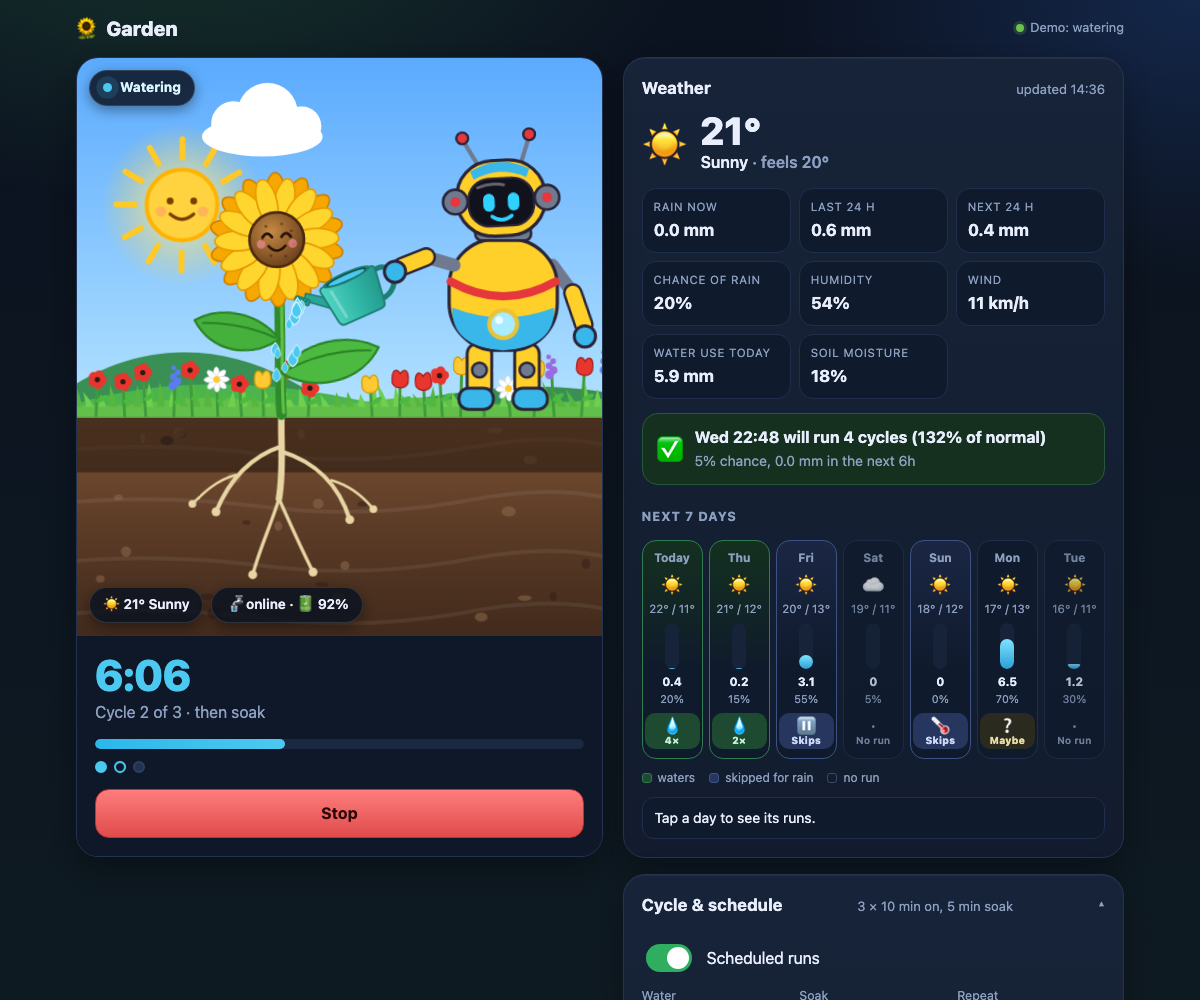
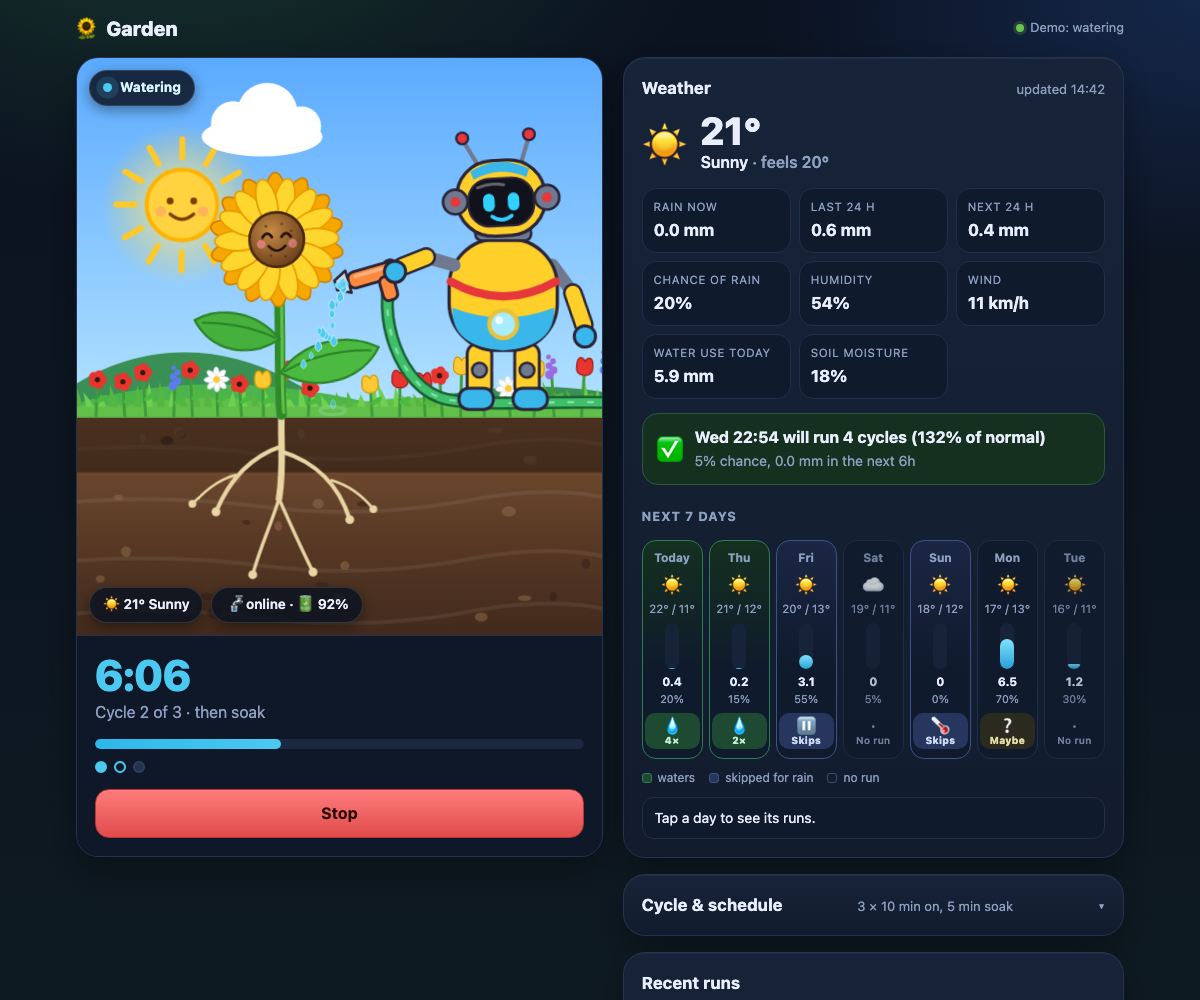
feat(ui): ✨ robot holds a hose
Swap the watering can for a hose gun with a hose trailing behind him. The
spray comes from the nozzle. README text and watering screenshot updated.

diff --git a/worker/public/index.html b/worker/public/index.html
@@ -155,6 +155,11 @@
                 <path d="M41 -70 L46 -50" stroke="#2a2438" stroke-width="12" stroke-linecap="round"/><path d="M41 -70 L46 -50" stroke="#ffcf2a" stroke-width="9" stroke-linecap="round"/>
                 <circle cx="46" cy="-43" r="6.5" fill="#39b6ea" stroke="#2a2438" stroke-width="1.8"/>
               </g>
+              <g class="robot-hose" fill="none" stroke-linecap="round">
+                <path d="M-67 -84 C-78 -60 -64 -12 -34 -6 C-8 -1 36 -7 110 -3" stroke="#1a5e32" stroke-width="8"/>
+                <path d="M-67 -84 C-78 -60 -64 -12 -34 -6 C-8 -1 36 -7 110 -3" stroke="#3fbf6a" stroke-width="5"/>
+                <path d="M-67 -84 C-78 -60 -64 -12 -34 -6 C-8 -1 36 -7 110 -3" stroke="#a8f0c4" stroke-width="1.4" stroke-dasharray="3 9" opacity=".7"/>
+              </g>
               <rect x="-22" y="-40" width="15" height="32" rx="6" fill="#ffcf2a" stroke="#2a2438" stroke-width="1.8"/><rect x="7" y="-40" width="15" height="32" rx="6" fill="#ffcf2a" stroke="#2a2438" stroke-width="1.8"/>
               <circle cx="-14.5" cy="-24" r="4.5" fill="#6f7a91" stroke="#2a2438" stroke-width="1.5"/><circle cx="14.5" cy="-24" r="4.5" fill="#6f7a91" stroke="#2a2438" stroke-width="1.5"/>
               <rect x="-27" y="-13" width="21" height="13" rx="6" fill="#39b6ea" stroke="#2a2438" stroke-width="1.8"/><rect x="6" y="-13" width="21" height="13" rx="6" fill="#39b6ea" stroke="#2a2438" stroke-width="1.8"/>
@@ -178,22 +183,23 @@
               <!-- the arm that holds the can -->
               <path d="M-30 -88 L-47 -93" stroke="#6f7a91" stroke-width="8" stroke-linecap="round"/>
               <circle cx="-47" cy="-93" r="4.5" fill="#6f7a91" stroke="#2a2438" stroke-width="1.5"/>
-              <g class="robot-can">
-                <path d="M34 -12 C 64 -24, 68 24, 31 26" stroke="#1d7f74" stroke-width="7" fill="none" stroke-linecap="round"/>
-                <path d="M-33 12 L-64 -14 L-58 -22 L-28 0Z" fill="#2ba597" stroke="#1d7f74" stroke-width="2" stroke-linejoin="round"/>
-                <g transform="translate(-64 -17) rotate(-48)"><rect x="-7" y="-10" width="8" height="20" rx="2.5" fill="#23988b" stroke="#1d7f74" stroke-width="2"/><circle cx="-2" cy="-5" r="1" fill="#0f4f49"/><circle cx="-2" cy="0" r="1" fill="#0f4f49"/><circle cx="-2" cy="5" r="1" fill="#0f4f49"/></g>
-                <path d="M-34 -20 L34 -20 Q41 -20 39 -12 L33 31 Q32 37 26 37 L-26 37 Q-32 37 -33 31 L-39 -12 Q-41 -20 -34 -20Z" fill="url(#gCan)" stroke="#1d7f74" stroke-width="2.5" stroke-linejoin="round"/>
-                <ellipse cx="0" cy="-20" rx="34" ry="7" fill="#1d7f74"/><ellipse cx="0" cy="-20" rx="29" ry="4.8" fill="#0f4f49"/><ellipse cx="0" cy="-19.2" rx="26" ry="3.4" fill="#4cc9f0"/>
-                <path d="M-26 -10 L-21 28" stroke="#fff" stroke-width="4" opacity=".28" stroke-linecap="round"/>
+              <!-- a hose gun in his hand; the hose trails behind him along the ground -->
+              <g class="robot-gun">
+                <rect x="-71" y="-92" width="6" height="9" rx="2" fill="#8d97ad" stroke="#2a2438" stroke-width="1.4"/>
+                <rect x="-95" y="-91" width="30" height="10" rx="4" fill="#ff8a3d" stroke="#2a2438" stroke-width="1.8"/>
+                <rect x="-77" y="-83" width="9" height="15" rx="3.5" fill="#ff8a3d" stroke="#2a2438" stroke-width="1.8"/>
+                <path d="M-95 -93 L-103 -89 L-103 -83 L-95 -79Z" fill="#d6dbe6" stroke="#2a2438" stroke-width="1.6" stroke-linejoin="round"/>
+                <circle class="tip" cx="-103" cy="-86" r="1.4" fill="#4cc9f0"/>
+                <path d="M-90 -88 L-72 -88" stroke="#fff" stroke-width="2" stroke-linecap="round" opacity=".35"/>
               </g>
               <path d="M-47 -93 L-62 -87" stroke="#2a2438" stroke-width="12" stroke-linecap="round"/><path d="M-47 -93 L-62 -87" stroke="#ffcf2a" stroke-width="9" stroke-linecap="round"/>
               <circle cx="-66" cy="-84" r="6.5" fill="#39b6ea" stroke="#2a2438" stroke-width="1.8"/>
             </g></g>
 
-            <!-- water that falls from the can -->
+            <!-- water sprayed from the nozzle -->
             <g class="pour">
               <path class="stream" d="M216 200 Q206 222 198 268" stroke="#4cc9f0" stroke-width="3.5" fill="none" stroke-linecap="round" opacity=".85"/>
-              <g id="drops" transform="translate(172 188)"></g>
+              <g id="drops" transform="translate(206 171)"></g>
               <g id="splashes"></g>
             </g>
 

diff --git a/worker/public/app.js b/worker/public/app.js
@@ -76,15 +76,15 @@ function buildScene() {
   for (let i = 0; i < 26; i++) {
     el("ellipse", { cx: rand() * 400, cy: 282 + rand() * 150, rx: 2 + rand() * 4, ry: 1.6 + rand() * 3, fill: rand() > 0.5 ? "#8c6a4d" : "#33211a", opacity: 0.55 }, soil);
   }
-  // water thrown from the can's spout on a curved path: x is linear, y accelerates
-  for (let i = 0; i < 14; i++) {
-    const dx = -(6 + ((i * 7) % 30));
-    const dur = 0.7 + (i % 4) * 0.06;
-    const delay = -(i * 0.09);
+  // spray from the hose nozzle on a curved path: x is linear, y accelerates
+  for (let i = 0; i < 24; i++) {
+    const dx = -(8 + ((i * 5) % 46));
+    const dur = 0.55 + (i % 4) * 0.05;
+    const delay = -(i * 0.07);
     const x = el("g", { class: "drop-x", style: `--dx:${dx}px;--dur:${dur}s;--delay:${delay}s` }, $("drops"));
-    const y = el("g", { class: "drop-y", style: `--dur:${dur}s;--delay:${delay}s;--fall:81px` }, x);
-    el("use", { href: "#drop", transform: `scale(${0.75 + (i % 3) * 0.2})` }, y);
-    el("ellipse", { class: "splash", cx: 172 + dx, cy: 269, rx: 8, ry: 2.4, style: `--dur:${dur}s;--delay:${delay}s` }, $("splashes"));
+    const y = el("g", { class: "drop-y", style: `--dur:${dur}s;--delay:${delay}s;--fall:98px` }, x);
+    el("use", { href: "#drop", transform: `scale(${0.5 + (i % 3) * 0.15})` }, y);
+    el("ellipse", { class: "splash", cx: 206 + dx, cy: 269, rx: 6, ry: 1.9, style: `--dur:${dur}s;--delay:${delay}s` }, $("splashes"));
   }
   // falling rain
   for (let i = 0; i < 34; i++) {

diff --git a/worker/public/style.css b/worker/public/style.css
@@ -291,8 +291,8 @@ button.day { font: inherit; color: inherit; cursor: pointer; }
 .a2 { animation-delay: -.6s; }
 .robot-eyes { transform-box: fill-box; transform-origin: center; animation: blink 4.6s infinite; }
 .arm-far { transform-origin: 30px -88px; animation: armfar 2.4s ease-in-out infinite alternate; }
-.robot-can { transform: translate(-66px, -84px) rotate(0deg) scale(.46) translate(-62px, 0px); transition: transform 1.1s cubic-bezier(.3, 1.4, .5, 1) .6s; }
-.scene[data-valve="watering"] .robot-can { transform: translate(-66px, -84px) rotate(-24deg) scale(.46) translate(-62px, 0px); }
+.robot-gun { transform-origin: -66px -84px; transition: transform 1.1s cubic-bezier(.3, 1.4, .5, 1) .6s; }
+.scene[data-valve="watering"] .robot-gun { transform: rotate(-16deg); }
 
 .pour { opacity: 0; transition: opacity .3s ease; }
 .scene[data-valve="watering"] .pour { opacity: 1; transition: opacity .5s ease 1.3s; }

diff --git a/README.md b/README.md
@@ -26,7 +26,7 @@ These come from the UI's built-in demo mode (`?demo=watering`, `rain`, `night`),
 
 | Watering | Rain | Night |
 | --- | --- | --- |
-| <img src="docs/screenshots/watering.png" alt="Watering: the robot tips its watering can over the sunflower"> | <img src="docs/screenshots/rain.png" alt="Rain: a dark sky, falling rain and puddles"> | <img src="docs/screenshots/night.png" alt="Night: moon and stars"> |
+| <img src="docs/screenshots/watering.png" alt="Watering: the robot sprays the sunflower with a hose"> | <img src="docs/screenshots/rain.png" alt="Rain: a dark sky, falling rain and puddles"> | <img src="docs/screenshots/night.png" alt="Night: moon and stars"> |
 
 <details>
 <summary>Settings</summary>
@@ -107,7 +107,7 @@ The diagram is pinned to this repository on GitHub, so every source reference li
 An animated cartoon garden follows the controller, not the buttons you press:
 
 - **Idle**: a sunflower swaying under the real sky (sun, moon and stars, clouds, bee), and the next watering time.
-- **Watering**: a little robot gardener rolls in and tilts its watering can over the sunflower, but only once the
+- **Watering**: a little robot gardener rolls in with a hose and sprays the sunflower, but only once the
   controller has confirmed the valve open. Clicking "Water now" changes nothing on screen until the run state comes back.
 - **Soaking**: the robot leaves, the view eases in towards the soil, and droplets seep towards the roots while the moisture
   spreads in step with the soak countdown.
